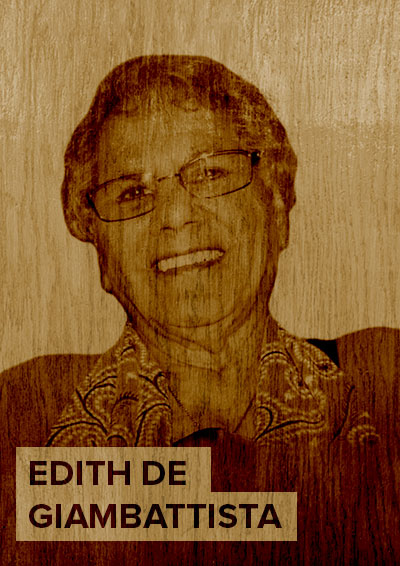
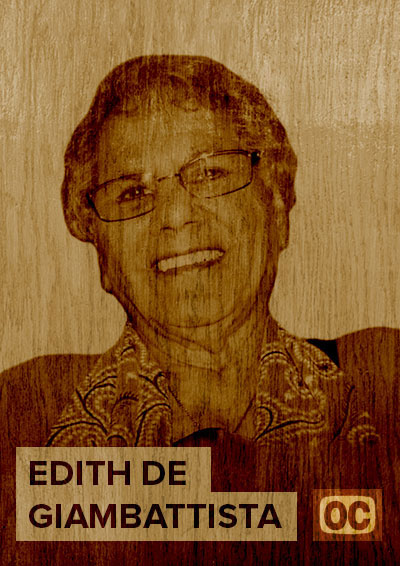
Final Update
Symposium launched!
Future updates will just be bug fixes.

Changed region(s): [[0.78, 0.841, 0.96, 0.9611]]

diff --git a/index(top).html b/index(top).html
@@ -27,7 +27,7 @@
     <script src="https://cdn.jsdelivr.net/npm/bootstrap@5.3.0/dist/js/bootstrap.bundle.min.js" integrity="sha384-geWF76RCwLtnZ8qwWowPQNguL3RmwHVBC9FhGdlKrxdiJJigb/j/68SIy3Te4Bkz" crossorigin="anonymous"></script>
     <!--  Scoring System -->
     <div class="counter-container" id="score" style="display: none;">
-      <span id="counter-text">0/5</span>
+      <span id="counter-text">0/4</span>
     </div>
     
     <a-scene
@@ -54,15 +54,21 @@
         <div class="modal-content filled" style="overflow-y: scroll; overflow-x: hidden;">
           <span class="welcomeClose">&times;</span>
           <div class="container-fluid">
-            <h2>Welcome to the <i>LIMEN: At the Fence</i> Exhibition</h2>
+            <h2>Welcome to <i>LIMEN: At the Fence</i></h2>
             <div class="row">
-              <div class="col"><p>You are about to enter a re-creation of Limen 2.0 – At the Fence exhibition. Inside, you can explore and engage with the survivors at your own pace. 
-                
-                While inside, please view three portraits and one video. You can see which pieces you have listened to as a tick will appear over each one when you have finished. There is also a counter in the top left corner. After listening to four pieces, you can proceed to the next section, or stay and listen to more.                
+              <div class="col"><p>You are about to enter a re-creation of the Limen 2.0 - At the Fence exhibition where you will be visiting the lands of the Yued, Ganeang, Goreng and Wiilman Noongar people. 
+                <br><br>
+                While inside, please view four portraits or videos. You can see which pieces you have listened to as a tick will appear over each one when you have finished. There is also a counter in the top left corner. 
+                <br><br>
+                After listening to four pieces, you can proceed to the next section, or stay and listen to more. Pieces labelled OC have subtitles.
               </p></div>
             </div>
             <div class="row">
-              <div class="col"><strong>Controls & Help</strong><p>To move around the space, please review the instructions below. If you experience any issues viewing the exhibition space, a dropdown is available for you below to also view the videos. If you would like to review this information again, press the "HELP" button in the bottom left corner.
+              <div class="col"><strong>Controls & Help</strong><p>To move around the space, please review the instructions below. If you would like to review this information while you are inside the exhibition, press the "HELP" button in the bottom left corner.
+              </p></div>
+            </div>
+            <div class="row">
+              <div class="col"><strong>Enter the model</strong><p>To enter the model, close this box by clicking X. 
               </p></div>
             </div>
           </div>
@@ -75,65 +81,65 @@
       
       <!-- Asset Section. Code added here can be referenced but won't appear on page -->
       <a-assets>
-        <img id="logo" src="src/img/limen_logo.png">
-        <img id="sky" src="src/img/panorama_image_3.jpg">
+        <img id="logo" src="src/img/limen_logo.png" alt="LIMEN 2.0 Logo">
+        <img id="sky" src="src/img/panorama_image_3.jpg" alt="Sky panorama">
 
         <!-- Exhibition Space  -->
-        <a-asset-item id="exhibition_space" src="src/mesh/exhibition_space_4.glb" shadow="cast: true; receive: true"></a-asset-item>
-        <a-asset-item id="exhibition_artwork" src="src/mesh/artwork_2.glb" shadow="cast: true;"></a-asset-item>
+        <a-asset-item id="exhibition_space" src="src/mesh/exhibition_space_4.glb" shadow="cast: true; receive: true" alt="The exhibition space"></a-asset-item>
+        <a-asset-item id="exhibition_artwork" src="src/mesh/artwork_2.glb" shadow="cast: true;" alt="Artwork of the stolen generation within the exhibition"></a-asset-item>
         
         <!-- <a-asset-item id="door" src="src/mesh/door.glb" shadow="cast: true;"></a-asset-item> -->
-        <a-asset-item id="fence" src="src/mesh/fences.glb" shadow="cast: true;"></a-asset-item>
+        <a-asset-item id="fence" src="src/mesh/fences.glb" shadow="cast: true;" alt="Metal fence"></a-asset-item>
 
         <!-- Nav Mesh -->
-        <a-asset-item id="exhibition_navmesh" src="src/mesh/exhibition_top_2.glb"></a-asset-item>
+        <a-asset-item id="exhibition_navmesh" src="src/mesh/exhibition_top_2.glb" alt="Floor to navigate the exhibition space"></a-asset-item>
         <a-entity id="Posters">
           <img id="dianne" crossorigin="anonymous"/>
-          <img id="diannePoster" src="src/img/dianne-mippy.jpg" crossorigin="anonymous"/>
+          <img id="diannePoster" src="src/img/dianne-mippy.jpg" crossorigin="anonymous" alt="Poster of speaker Dianne Mippy"/>
 
           <img id="jennifer" crossorigin="anonymous"/>
-          <img id="jenniferPoster" src="src/img/jennifer-mogridge.jpg" crossorigin="anonymous"/>
+          <img id="jenniferPoster" src="src/img/jennifer-mogridge.jpg" crossorigin="anonymous" alt="Poster of speaker Jennifer Mogridge"/>
 
           <img id="stephanie" crossorigin="anonymous"/>
-          <img id="stephaniePoster" src="src/img/stephanie-mippy.jpg" crossorigin="anonymous"/>
+          <img id="stephaniePoster" src="src/img/stephanie-mippy.jpg" crossorigin="anonymous" alt="Poster of speaker Stephanie Mippy"/>
 
           <img id="tim" crossorigin="anonymous"/>
-          <img id="timPoster" src="src/img/tim-flowers.jpg" crossorigin="anonymous"/>
+          <img id="timPoster" src="src/img/tim-flowers.jpg" crossorigin="anonymous" alt="Poster of speaker Time Flowers"/>
 
           <img id="tim2" crossorigin="anonymous"/>
-          <img id="tim2-image" src="src/img/tim2-image.jpg" crossorigin="anonymous"/>
+          <img id="tim2-image" src="src/img/tim2-image.jpg" crossorigin="anonymous" alt="Poster of speaker Time Flowers talking about his mother"/>
 
           <img id="tonji" crossorigin="anonymous"/>
-          <img id="tonjiPoster" src="src/img/tonji-hansen.jpg" crossorigin="anonymous"/>
+          <img id="tonjiPoster" src="src/img/tonji-hansen.jpg" crossorigin="anonymous" alt="Poster of speaker Tonji Hansen"/>
 
           <img id="unnamed" crossorigin="anonymous"/>
-          <img id="unnamedPoster" src="src/img/blank-poster.jpg" crossorigin="anonymous"/>
+          <img id="unnamedPoster" src="src/img/blank-poster.jpg" crossorigin="anonymous" alt="Blank poster"/>
 
           <img id="gail2" crossorigin="anonymous"/>
-          <img id="gailPoster" src="src/img/gail-yorkshire.jpg" crossorigin="anonymous"/>
+          <img id="gailPoster" src="src/img/gail-yorkshire.jpg" crossorigin="anonymous" alt="Poster of speaker Gail Yorkshire"/>
 
           <!-- Video Test -->
           <img id="rear" crossorigin="anonymous"/>
-          <img id="rear-video" src="src/img/carrolup-marribank-final-version.jpg" crossorigin="anonymous"/>
+          <img id="rear-video" src="src/img/carrolup-marribank-final-version.jpg" crossorigin="anonymous" alt="Photograph of Carrolup Marribank"/>
 
           <img id="left" crossorigin="anonymous"/>
-          <img id="left-video" src="src/img/mogumber_moore_river.jpg" crossorigin="anonymous"/>
+          <img id="left-video" src="src/img/mogumber_moore_river.jpg" crossorigin="anonymous" alt="Photograph of Mogumber Moore River"/>
 
           <img id="middle" crossorigin="anonymous"/>
-          <img id="middle-video" src="src/img/wandering_mission.jpg" crossorigin="anonymous"/>
+          <img id="middle-video" src="src/img/wandering_mission.jpg" crossorigin="anonymous" alt="Photograph of Wandering Mission"/>
 
           <img id="floor" crossorigin="anonymous"/>
-          <img id="floor-video" src="src/img/site-maps.jpg" crossorigin="anonymous"/>
+          <img id="floor-video" src="src/img/site-maps.jpg" crossorigin="anonymous" alt="Sitemaps"/>
 
           <img id="display" crossorigin="anonymous"/>
-          <img id="display-image" src="src/img/info-board-LP.jpg" crossorigin="anonymous"/>
+          <img id="display-image" src="src/img/info-board-LP.jpg" crossorigin="anonymous" alt="LIMEN 2.0 information board."/>
 
           <img id="welcome" crossorigin="anonymous"/>
-          <img id="welcome-image" src="src/img/welcome-board.jpg" crossorigin="anonymous"/>
+          <img id="welcome-image" src="src/img/welcome-board.jpg" crossorigin="anonymous" alt="LIMEN 2.0 welcome board"/>
         </a-entity>
         
         <a-entity id="Posters">
-          <img id="tick" src="src\img\checkmark_icon.png">
+          <img id="tick" src="src\img\checkmark_icon.png" alt="Checkbox">
         </a-entity>
 
         <!-- Frame Animation -->

diff --git a/index(bottom).html b/index(bottom).html
@@ -60,7 +60,7 @@
               </p></div>
           </div> -->
             <div class="row">
-              <div class="col"><p>Given the nature of this content, you may view as much or as little of this content as you wish. If you do not wish to listen to this content and would like to move on to "Strength and Resilience", please press "escape" key and then the "NEXT" button at the bottom of the page.  </p></div>
+              <div class="col"><p>Given the nature of this content, you may view as much or as little of this content as you wish. <br> <br> Once inside, if at any point you do not wish to listen anymore and would like to move on to Track 3: Strength and Resilience, please press the NEXT/CONTINUE button. </p></div>
             </div>
             <div class="row">
               <div class="col"><strong>Controls & Help</strong><p>To move around the space, please review the instructions below. If you experience any issues viewing the exhibition space, a dropdown is available for you below to also view the videos. If you would like to review this information again, press the "HELP" button in the bottom left corner.
@@ -76,26 +76,26 @@
       
       <!-- Asset Section. Code added here can be referenced but won't appear on page -->
       <a-assets>
-        <img id="sky" src="src/img/panorama_image_3.jpg">
+        <img id="sky" src="src/img/panorama_image_3.jpg" alt="sky panorama">
 
         <!-- Exhibition Space  -->
-        <a-asset-item id="exhibition_space" src="src/mesh/exhibition_space_4.glb" shadow="cast: true; receive: true"></a-asset-item>
-        <a-asset-item id="exhibition_artwork" src="src/mesh/artwork.glb" shadow="cast: true;"></a-asset-item>
+        <a-asset-item id="exhibition_space" src="src/mesh/exhibition_space_4.glb" shadow="cast: true; receive: true" alt="The exhibition space."></a-asset-item>
+        <a-asset-item id="exhibition_artwork" src="src/mesh/artwork.glb" shadow="cast: true;" alt="Artwork of the stolen generation within the exhibition"></a-asset-item>
 
         <!-- Nav Mesh -->
-        <a-asset-item id="exhibition_navmesh" src="src/mesh/exhibition_bottom.glb"></a-asset-item>
+        <a-asset-item id="exhibition_navmesh" src="src/mesh/exhibition_bottom.glb" alt="The geometry use to navigate the  of the stolen generation within the exhibition"></a-asset-item>
         <a-entity id="Posters">
           <img id="garry" crossorigin="anonymous"/>
-          <img id="garryPoster" src="src/img/garry-ryder.jpg" crossorigin="anonymous"/>
+          <img id="garryPoster" src="src/img/garry-ryder.jpg" crossorigin="anonymous" alt="Poster of speaker Garry Ryder"/>
       
           <img id="gail" crossorigin="anonymous"/>
-          <img id="gailPoster" src="src/img/gail-yorkshire.jpg" crossorigin="anonymous"/>
+          <img id="gailPoster" src="src/img/gail-yorkshireOC.jpg" crossorigin="anonymous" alt="Poster of speaker Gail Yorkshire"/>
         
           <img id="edith" crossorigin="anonymous"/>
-          <img id="edithPoster" src="src/img/edith-de-giambattista.jpg" crossorigin="anonymous"/>
+          <img id="edithPoster" src="src/img/edith-de-giambattista.jpg" crossorigin="anonymous" alt="Poster of speaker Edith De Giambattista"/>
 
           
-          <img id="tick" src="src\img\checkmark_icon.png">
+          <img id="tick" src="src\img\checkmark_icon.png" alt="checkmark icon">
 
       
         

diff --git a/index(end).html b/index(end).html
@@ -53,18 +53,18 @@
       
       <!-- Asset Section. Code added here can be referenced but won't appear on page -->
       <a-assets>
-        <img id="sky" src="src/img/panorama_image_3.jpg">
-        <img id="sky2" src="src/img/panorama_image_2.jpg">
+        <img id="sky" src="src/img/panorama_image_3.jpg" alt="Sky panorama generic">
+        <img id="sky2" src="src/img/panorama_image_2.jpg" alt="Sky panorama starry night.">
 
         <!-- Exhibition Space  -->
-        <a-asset-item id="exhibition_space" src="src/mesh/exhibition_space_4.glb" shadow="cast: true; receive: true"></a-asset-item>
-        <a-asset-item id="fence" src="src/mesh/fences.glb" shadow="cast: true;"></a-asset-item>
+        <a-asset-item id="exhibition_space" src="src/mesh/exhibition_space_4.glb" shadow="cast: true; receive: true" alt="Exhibition space"></a-asset-item>
+        <a-asset-item id="fence" src="src/mesh/fences.glb" shadow="cast: true;" alt="Metal fence"></a-asset-item>
 
         <!-- Nav Mesh -->
-        <a-asset-item id="exhibition_navmesh" src="src/mesh/exhibition_end.glb"></a-asset-item>
+        <a-asset-item id="exhibition_navmesh" src="src/mesh/exhibition_end.glb" alt="Floor to navigate exhibition space"></a-asset-item>
         <a-entity id="Posters">
           <img id="yarning" crossorigin="anonymous"/>
-          <img id="yarning-video" src="src/img/carrolup-marribank-final-version.jpg" crossorigin="anonymous"/>   
+          <img id="yarning-video" src="src/img/carrolup-marribank-final-version.jpg" crossorigin="anonymous" alt="Yarning circle video poster"/>   
         </a-entity>
         
         <!-- Frame Animation -->
